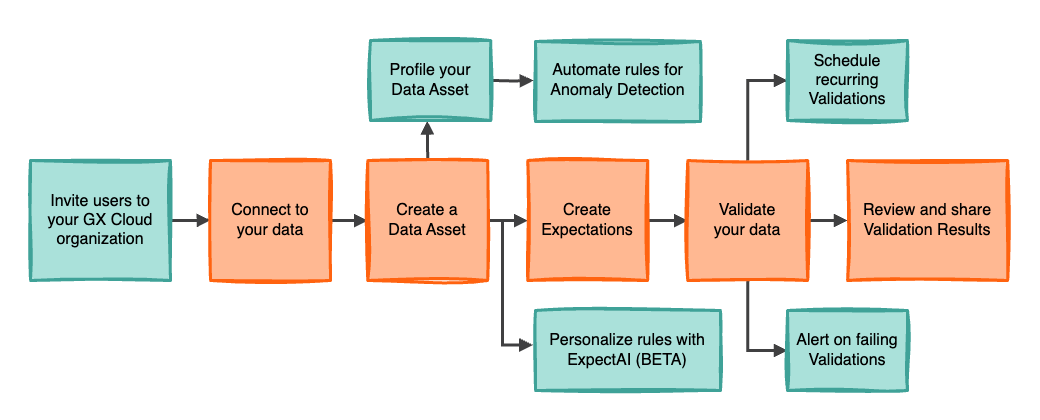
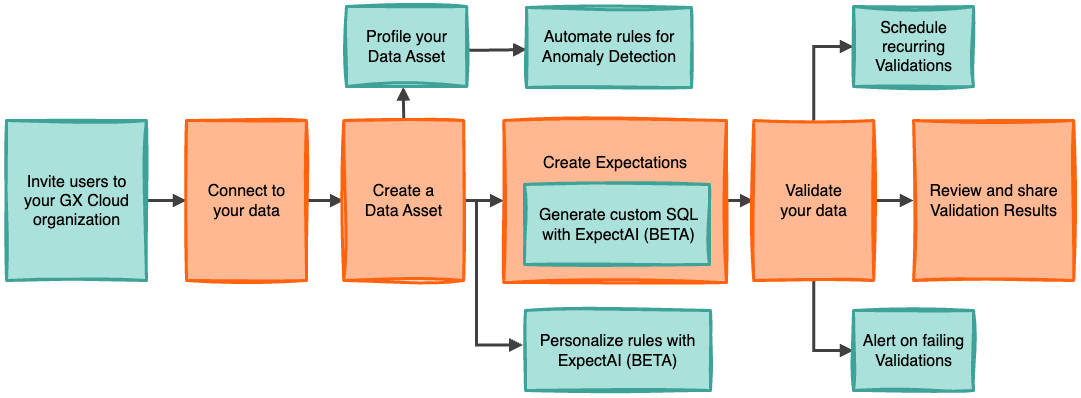
[DOCS] generate SQL (#11289)

Pull request: [DOCS] generate SQL
Resolves https://greatexpectations.atlassian.net/browse/DOC-1142 according to the plan linked in that issue

- [X] Description of PR changes above includes a link to [an existing GitHub issue](https://github.com/great-expectations/great_expectations/issues)
- [X] PR title is prefixed with one of: [BUGFIX], [FEATURE], [DOCS], [MAINTENANCE], [CONTRIB], [MINORBUMP]
- [ ] Code is linted - run `invoke lint` (uses `ruff format` + `ruff check`)
- [X] Appropriate tests and docs have been updated

For more information about contributing, visit our [community resources](https://docs.greatexpectations.io/docs/core/introduction/community_resources#contribute-code-or-documentation).

After you submit your PR, keep the page open and **monitor the statuses of the various checks made by our continuous integration process at the bottom of the page. Please fix any issues that come up** and [reach out on Slack](https://greatexpectations.io/slack) if you need help. Thanks for contributing!

diff --git a/docs/docusaurus/sidebars.js b/docs/docusaurus/sidebars.js
@@ -154,7 +154,7 @@ module.exports = {
       link: { type: 'doc', id: 'cloud/gx_cloud_lp' },
       items: [
         'cloud/overview/gx_cloud_overview',
-        'cloud/overview/automating_rules',
+        'cloud/overview/accelerating_test_coverage',
         'cloud/overview/coverage_health'
       ]
     },

diff --git a/docs/docusaurus/docs/cloud/expectations/manage_expectations.md b/docs/docusaurus/docs/cloud/expectations/manage_expectations.md
@@ -79,6 +79,28 @@ The optional `{batch}` named query references the Batch of data under test. When
 
 :::
 
+### Generate SQL with ExpectAI <span class="beta">Beta</span>
+
+To simplify working with custom SQL Expectations, you can use ExpectAI to generate a SQL query based on a natural language prompt you provide and a data profile GX Cloud automatically provides.
+
+For example, imagine you have a New York City taxi trip dataset with columns named `pickup_borough`, `vehicle_type`, and `passenger_count`. If you [add a custom SQL Expectation](#add-an-expectation) with a **Prompt for SQL generation** like `sedan rides in Manhattan shouldn't have more than 4 passengers` then ExpectAI would generate a SQL query similar to the following:
+
+```sql title="SQL query"
+SELECT
+*
+FROM
+{batch}
+WHERE
+pickup_borough = 'Manhattan'
+AND vehicle_type = 'Sedan'
+AND passenger_count > 4
+```
+
+Keep the following requirements in mind when working with ExpectAI:
+- Your organization must be using a [fully-hosted deployment](/cloud/deploy/deployment_patterns.md).
+- The Data Asset's Data Source must be Databricks SQL, PostgreSQL, Redshift, or Snowflake.
+
+
 ## Multi-source Expectations
 
 A Multi-source Expectation executes one SQL query for each of two Data Sources and compares their results for equality. This can be helpful for validating consistency between systems during data migration or regular data loading processes. Multi-source Expectations can detect data drift introduced during the ETL process through discrepancies in schemas, counts, time windows, data types, and precision levels between Data Sources. Here are some examples of comparisons you can test:
@@ -162,13 +184,15 @@ To clear the Expectation condition, click the clear button located on the right-
 
 3. Click **New Expectation**.
 
-4. Select a data quality issue to test for.
+4. Select a data quality issue to test for or an option for writing your own test.
+
+   :::tip Options for accelerating test coverage
+   If you selected the **Schema**, **Volume**, or **Completeness** data quality issue, you will have the **Automatic** option to generate Expectations for [Anomaly Detection](/cloud/overview/accelerating_test_coverage.md#anomaly-detection). If you instead want to create your own rules, click **Manual**.
+   
+   If you selected custom **SQL**, you will have the option to **Generate SQL** with [ExpectAI (BETA)](#generate-sql-with-expectai-beta). You can **Write your own SQL** if you prefer.
+   :::
 
 5. Select an Expectation type.
-
-   :::tip Automatic rules for Anomaly Detection
-   If you selected the schema, volume, or completeness data quality issue, you will have the **Automatic** option to generate Expectations for [Anomaly Detection](/cloud/overview/automating_rules.md#anomaly-detection). If you instead want to create your own rules, click **Manual** and then select an Expectation type.
-   :::
 
 6. Complete the mandatory and optional fields for the Expectation. A recurring [validation schedule](/cloud/schedules/manage_schedules.md) will be applied automatically to your Expectation. 
 

diff --git a/docs/docusaurus/docs/cloud/connect/connect_databrickssql.md b/docs/docusaurus/docs/cloud/connect/connect_databrickssql.md
@@ -35,7 +35,7 @@ import Tabs from '@theme/Tabs';
 
 6. Click **Add x Asset(s)**.
 
-7. Decide which [Anomaly Detection](/docs/cloud/overview/automating_rules.md#anomaly-detection) options you want to enable. By default, GX Cloud adds Expectations to detect **Schema**, **Volume**, and **Completeness** anomalies. You can de-select recommendations you’d like to opt out of.
+7. Decide which [Anomaly Detection](/docs/cloud/overview/accelerating_test_coverage.md#anomaly-detection) options you want to enable. By default, GX Cloud adds Expectations to detect **Schema**, **Volume**, and **Completeness** anomalies. You can de-select recommendations you’d like to opt out of.
 
 8. Click **Start monitoring** or **Finish**.
 

diff --git a/docs/docusaurus/docs/cloud/connect/connect_postgresql.md b/docs/docusaurus/docs/cloud/connect/connect_postgresql.md
@@ -60,7 +60,7 @@ import Tabs from '@theme/Tabs';
 
 6. Click **Add x Asset(s)**.
 
-7. Decide which [Anomaly Detection](/docs/cloud/overview/automating_rules.md#anomaly-detection) options you want to enable. By default, GX Cloud adds Expectations to detect **Schema**, **Volume**, and **Completeness** anomalies. You can de-select recommendations you’d like to opt out of.
+7. Decide which [Anomaly Detection](/docs/cloud/overview/accelerating_test_coverage.md#anomaly-detection) options you want to enable. By default, GX Cloud adds Expectations to detect **Schema**, **Volume**, and **Completeness** anomalies. You can de-select recommendations you’d like to opt out of.
 
 8. Click **Start monitoring** or **Finish**.
 

diff --git a/docs/docusaurus/docs/cloud/connect/connect_redshift.md b/docs/docusaurus/docs/cloud/connect/connect_redshift.md
@@ -101,7 +101,7 @@ Run all queries in the [Amazon Redshift query editor v2](https://docs.aws.amazon
 
 7. Click **Add x Asset(s)**.
 
-8. Decide which [Anomaly Detection](/docs/cloud/overview/automating_rules.md#anomaly-detection) options you want to enable. By default, GX Cloud adds Expectations to detect **Schema**, **Volume**, and **Completeness** anomalies. You can de-select recommendations you’d like to opt out of.
+8. Decide which [Anomaly Detection](/docs/cloud/overview/accelerating_test_coverage.md#anomaly-detection) options you want to enable. By default, GX Cloud adds Expectations to detect **Schema**, **Volume**, and **Completeness** anomalies. You can de-select recommendations you’d like to opt out of.
 
 9. Click **Start monitoring** or **Finish**.
 

diff --git a/docs/docusaurus/docs/cloud/connect/connect_snowflake.md b/docs/docusaurus/docs/cloud/connect/connect_snowflake.md
@@ -112,7 +112,7 @@ Then, you can use the GX Cloud UI to [add a Data Asset](/cloud/data_assets/manag
 
 7. Click **Add x Asset(s)**.
 
-8. Decide which [Anomaly Detection](/docs/cloud/overview/automating_rules.md#anomaly-detection) options you want to enable. By default, GX Cloud adds Expectations to detect **Schema**, **Volume**, and **Completeness** anomalies. You can de-select recommendations you’d like to opt out of.
+8. Decide which [Anomaly Detection](/docs/cloud/overview/accelerating_test_coverage.md#anomaly-detection) options you want to enable. By default, GX Cloud adds Expectations to detect **Schema**, **Volume**, and **Completeness** anomalies. You can de-select recommendations you’d like to opt out of.
 
 9. Click **Start monitoring** or **Finish**.
 

diff --git a/docs/docusaurus/docs/cloud/data_assets/manage_data_assets.md b/docs/docusaurus/docs/cloud/data_assets/manage_data_assets.md
@@ -24,7 +24,7 @@ To add a Data Asset from an existing Data Source, complete the following steps:
 
 4. Click **Add x Asset(s)**.
 
-5. Decide which [Anomaly Detection](/docs/cloud/overview/automating_rules.md#anomaly-detection) options you want to enable. By default, GX Cloud adds Expectations to detect **Schema**, **Volume**, and **Completeness** anomalies. You can de-select recommendations you’d like to opt out of.
+5. Decide which [Anomaly Detection](/docs/cloud/overview/accelerating_test_coverage.md#anomaly-detection) options you want to enable. By default, GX Cloud adds Expectations to detect **Schema**, **Volume**, and **Completeness** anomalies. You can de-select recommendations you’d like to opt out of.
 
 6. Click **Start monitoring** or **Finish**.
 

diff --git a/docs/docusaurus/docs/cloud/deploy/deploy_gx_agent.md b/docs/docusaurus/docs/cloud/deploy/deploy_gx_agent.md
@@ -18,7 +18,7 @@ A local deployment of the GX Agent will allow you to test GX Cloud setup or proc
 
 ## Limitations
 
-Agent-enabled deployments do not support [ExpectAI](/cloud/expectations/manage_expectations.md#generate-expectations-with-expectai-beta). To be able to generate AI-recommended Expectations, use a [fully-hosted deployment](/cloud/deploy/deployment_patterns.md).
+Agent-enabled deployments do not support [ExpectAI](/cloud/overview/accelerating_test_coverage.md#expectai-beta). To be able to generate AI-recommended Expectations or custom SQL, use a [fully-hosted deployment](/cloud/deploy/deployment_patterns.md).
 
 ## Prerequisites
 

diff --git a/docs/docusaurus/docs/cloud/gx_cloud_lp.md b/docs/docusaurus/docs/cloud/gx_cloud_lp.md
@@ -22,7 +22,7 @@ import OverviewCard from '@site/src/components/OverviewCard';
 
 <LinkCardGrid>
   <LinkCard topIcon label="GX Cloud overview" description="Learn more about GX Cloud features and functionality." to="/cloud/overview/gx_cloud_overview" icon="/img/small_gx_logo.png" />
-  <LinkCard topIcon label="Automating data quality rules" description="Explore options for more quickly achieving test coverage." to="/cloud/overview/automating_rules" icon="/img/small_gx_logo.png" />
+  <LinkCard topIcon label="Accelerating test coverage" description="Explore options for more quickly achieving test coverage." to="/cloud/overview/accelerating_test_coverage" icon="/img/small_gx_logo.png" />
   <LinkCard topIcon label="Coverage health" description="Understand what you're testing and how often for a more holistic perspective on data health." to="/cloud/overview/coverage_health" icon="/img/small_gx_logo.png" />
 </LinkCardGrid>
 

diff --git a/docs/docusaurus/docs/cloud/overview/coverage_health.md b/docs/docusaurus/docs/cloud/overview/coverage_health.md
@@ -44,5 +44,5 @@ Only current Data Assets are considered in coverage health metrics. Deleted Data
 ## Next steps
 - If **Active Data Assets** are low, [schedule recurring Validations](/cloud/schedules/manage_schedules.md).
 - If **Schema**, **Volume**, or **Completeness** coverage is low, [add Expectations](/cloud/expectations/manage_expectations.md#add-an-expectation).
-- When adding new Data Assets, [automate rules for Anomaly Detection](/cloud/overview/automating_rules.md).
+- When adding new Data Assets, [automate rules for Anomaly Detection](/cloud/overview/accelerating_test_coverage.md).
 

diff --git a/docs/docusaurus/docs/cloud/overview/gx_cloud_overview.md b/docs/docusaurus/docs/cloud/overview/gx_cloud_overview.md
@@ -50,6 +50,8 @@ There are a variety of GX Cloud features that support additional enhancements to
 
 * **Personalize rules with ExpectAI (BETA).** GX Cloud can generate [AI-recommended Expectations](/cloud/expectations/manage_expectations.md#generate-expectations-with-expectai-beta) for a Data Asset. These will be personalized based on an analysis of a sample of your data.
 
+* **Generate code for custom SQL Expectations with ExpectAI (BETA).** To simplify working with [custom SQL Expectations](/cloud/expectations/manage_expectations.md#custom-sql-expectations), you can use ExpectAI to generate a SQL query based on a natural language prompt you provide and a data profile GX Cloud automatically provides.
+
 * **Schedule Validations.** GX Cloud enables you to schedule validations, so that you can test and assess your data on a regular cadence and monitor data quality over time. See [Manage schedules](/cloud/schedules/manage_schedules.md) for more detail.
 
 * **Alerting.** GX Cloud provides the ability to send alerts when validations fail, enabling your organization to remain proactively aware of the health of your Data Assets. See [Manage alerts](/cloud/alerts/manage_alerts.md) for more detail.

diff --git a/docs/docusaurus/docs/reference/learn/data_quality_use_cases/volume.md b/docs/docusaurus/docs/reference/learn/data_quality_use_cases/volume.md
@@ -164,7 +164,7 @@ The scenarios in this section outline common real-world use cases for data volum
 
 ## Avoid common volume validation pitfalls
 
-- **Static Thresholds**: Avoid using fixed thresholds for `ExpectTableRowCountToBeBetween` that don't account for natural growth or seasonality. Regularly review and adjust your parameters. Or to save time, automate [Anomaly Detection](/cloud/overview/automating_rules.md#anomaly-detection) with GX Cloud. For example, an e-commerce platform might need different volume thresholds for regular days versus holiday seasons.
+- **Static Thresholds**: Avoid using fixed thresholds for `ExpectTableRowCountToBeBetween` that don't account for natural growth or seasonality. Regularly review and adjust your parameters. Or to save time, automate [Anomaly Detection](/cloud/overview/accelerating_test_coverage.md#anomaly-detection) with GX Cloud. For example, an e-commerce platform might need different volume thresholds for regular days versus holiday seasons.
 
 - **Ignoring Data Skew**: Data skew refers to the uneven distribution of data across partitions or nodes in a distributed system. Failing to account for data skew when validating volume can lead to misleading results. Monitor volume at the partition level and implement checks to detect and handle data skew.
 